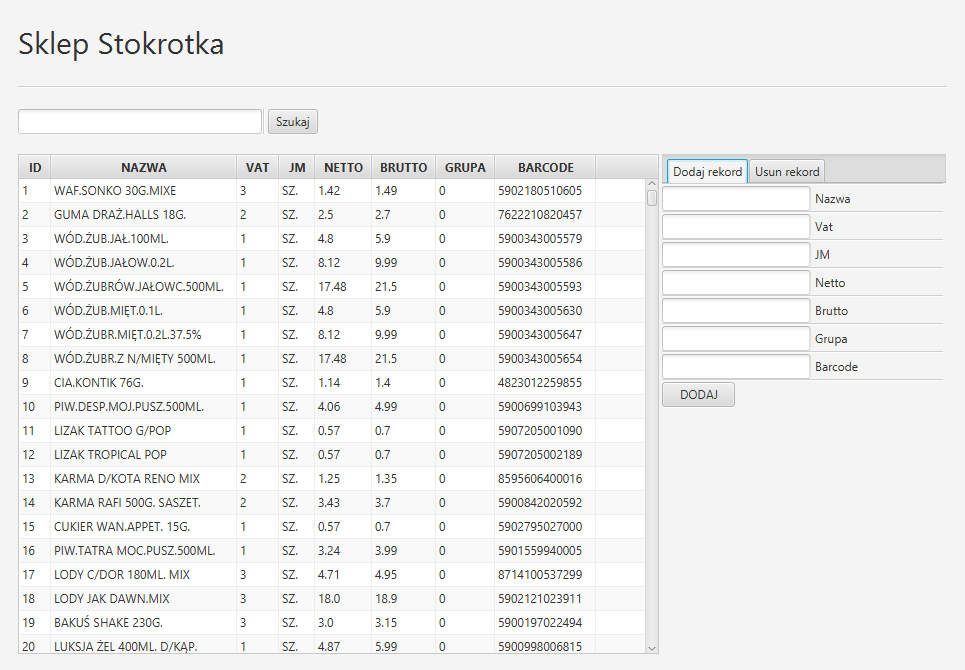
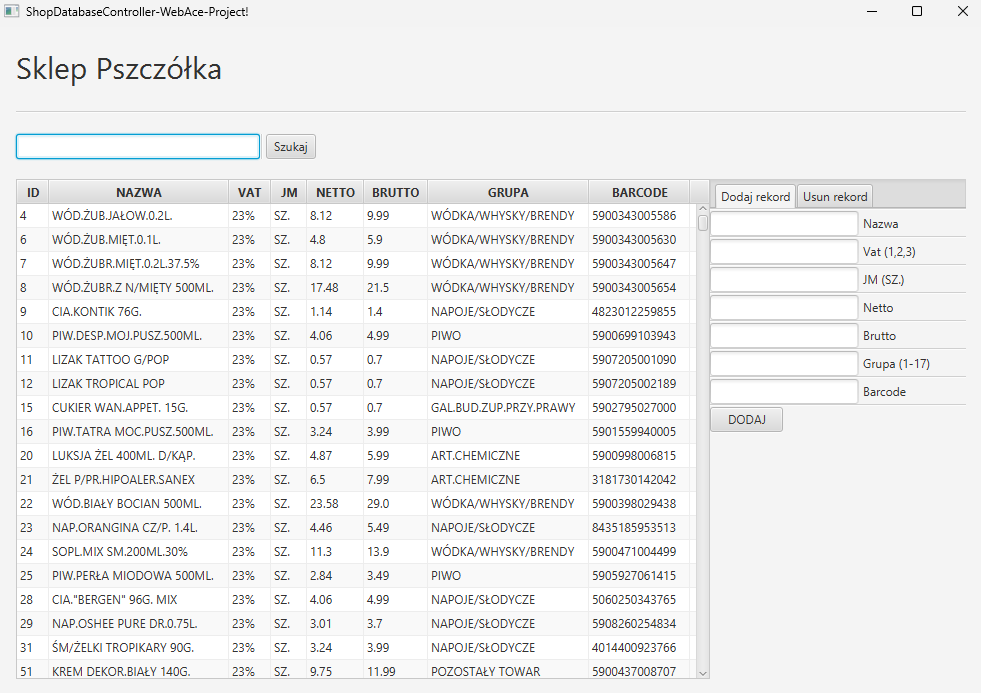
Insert, Delete (działa, bez walidacji)

Changed region(s): [[0.0, 0.1493, 0.9948, 0.9851], [0.0, 0.0, 0.2487, 0.1194], [0.9637, 0.0, 0.9948, 0.0299]]

diff --git a/src/main/java/me/prototyp/HelloController.java b/src/main/java/me/prototyp/HelloController.java
@@ -17,18 +17,17 @@ import java.util.ArrayList;
 
 public class HelloController {
 
+    //SEARCH
     @FXML
     private TextField searchField;
-
     @FXML
     private Button searchButton;
-
     @FXML
     private Label selectFrom;
 
+    //TABLE
     @FXML
     private TableView<Towar> towarTable;
-
     @FXML
     private TableColumn<Towar, String> idColumn;
     @FXML
@@ -46,20 +45,42 @@ public class HelloController {
     @FXML
     private TableColumn<Towar, String> barcodeColumn;
 
+    //INSERT and DELETE
+
+    @FXML
+    private TextField id2Field;
+    @FXML
+    private TextField nazwa2Field;
+    @FXML
+    private TextField vat2Field;
+    @FXML
+    private TextField jm2Field;
+    @FXML
+    private TextField netto2Field;
+    @FXML
+    private TextField brutto2Field;
+    @FXML
+    private TextField grupa2Field;
+    @FXML
+    private TextField barcode2Field;
+
+
+
+    //POŁĄCZENIE Z BAZĄ PBRANIE REKORDÓW
+    DatabaseController mysqlControl = new DatabaseController(
+            "localhost",
+            "3306",
+            "sklep",
+            "root",
+            ""
+    );
+    //KONIEC POŁĄCZENIE Z BAZĄ PBRANIE REKORDÓW
+
     //ObservableList<Towar> towarObservableList = FXCollections.observableArrayList();
 
     public void refreshTable(){
         //towarObservableList.clear();
 
-        //POŁĄCZENIE Z BAZĄ PBRANIE REKORDÓW
-        DatabaseController mysqlControl = new DatabaseController(
-                "localhost",
-                "3306",
-                "sklep",
-                "root",
-                ""
-        );
-        //KONIEC POŁĄCZENIE Z BAZĄ PBRANIE REKORDÓW
 
         towarTable.setItems(mysqlControl.getAllTowarObservableList());
     }
@@ -80,16 +101,6 @@ public class HelloController {
         barcodeColumn.setCellValueFactory(new PropertyValueFactory<>("barcode"));
 
 
-        //POŁĄCZENIE Z BAZĄ PBRANIE REKORDÓW
-        DatabaseController mysqlControl = new DatabaseController(
-                "localhost",
-                "3306",
-                "sklep",
-                "root",
-                ""
-        );
-        //KONIEC POŁĄCZENIE Z BAZĄ PBRANIE REKORDÓW
-
         towarTable.setItems(mysqlControl.getAllTowarObservableList());
     }
 
@@ -105,16 +116,6 @@ public class HelloController {
         barcodeColumn.setCellValueFactory(new PropertyValueFactory<>("barcode"));
 
 
-        //POŁĄCZENIE Z BAZĄ PBRANIE REKORDÓW
-        DatabaseController mysqlControl = new DatabaseController(
-                "localhost",
-                "3306",
-                "sklep",
-                "root",
-                ""
-        );
-        //KONIEC POŁĄCZENIE Z BAZĄ PBRANIE REKORDÓW
-
         towarTable.setItems(mysqlControl.getAllTowarObservableList(querry));
     }
 
@@ -125,5 +126,41 @@ public class HelloController {
         loadDate(searchQuerrySql);
         searchField.setText("");
     }
+
+
+    public void insertInto(){
+        String nazwa = nazwa2Field.getText();
+        String vat = vat2Field.getText();
+        String jm = jm2Field.getText();
+        String netto = netto2Field.getText();
+        String brutto = brutto2Field.getText();
+        String grupa = grupa2Field.getText();
+        String barcode = barcode2Field.getText();
+
+        mysqlControl.insertTowar(nazwa, vat, jm, netto, brutto, grupa, barcode);
+
+        nazwa2Field.setText("");
+        vat2Field.setText("");
+        jm2Field.setText("");
+        netto2Field.setText("");
+        brutto2Field.setText("");
+        grupa2Field.setText("");
+        barcode2Field.setText("");
+
+        loadDate();
+
+    }
+
+    public void deleteFrom(){
+        String id = id2Field.getText();
+
+        mysqlControl.deleteTowar(id);
+
+        id2Field.setText("");
+
+        loadDate();
+
+    }
+
 
 }

diff --git a/src/main/java/me/prototyp/database/DatabaseController.java b/src/main/java/me/prototyp/database/DatabaseController.java
@@ -143,6 +143,37 @@ public class DatabaseController {
         return towarObservableList;
     }
 
+    public boolean insertTowar(String nazwa, String vat, String jm, String netto, String brutto, String grupa, String barcode) {
+        String sql = "INSERT INTO towary (towary.nazwa, towary.vat, towary.jm, towary.netto, towary.brutto, towary.grupa, towary.barcod) VALUES (?,?,?,?,?,?,?);";
+        try {
+            PreparedStatement pstmt = this.connection.prepareStatement(sql);
+            pstmt.setString(1, nazwa);
+            pstmt.setString(2, String.valueOf(vat));
+            pstmt.setString(3, jm);
+            pstmt.setString(4, String.valueOf(netto));
+            pstmt.setString(5, String.valueOf(brutto));
+            pstmt.setString(6, String.valueOf(grupa));
+            pstmt.setString(7, barcode);
+            int result = pstmt.executeUpdate();
+            return true;
+        } catch (SQLException e) {
+            System.out.println(e.getMessage());
+            return false;
+        }
+    }
+
+    public boolean deleteTowar(String ID) {
+        String sql = "DELETE FROM towary WHERE tid="+ID+";";
+        try {
+            PreparedStatement pstmt = this.connection.prepareStatement(sql);
+            int result = pstmt.executeUpdate();
+            return true;
+        } catch (SQLException e) {
+            System.out.println(e.getMessage());
+            return false;
+        }
+    }
+
     /*
     public boolean addUser(User user) {
         String sql = "INSERT INTO Users (username, email) VALUES (?,?)";
